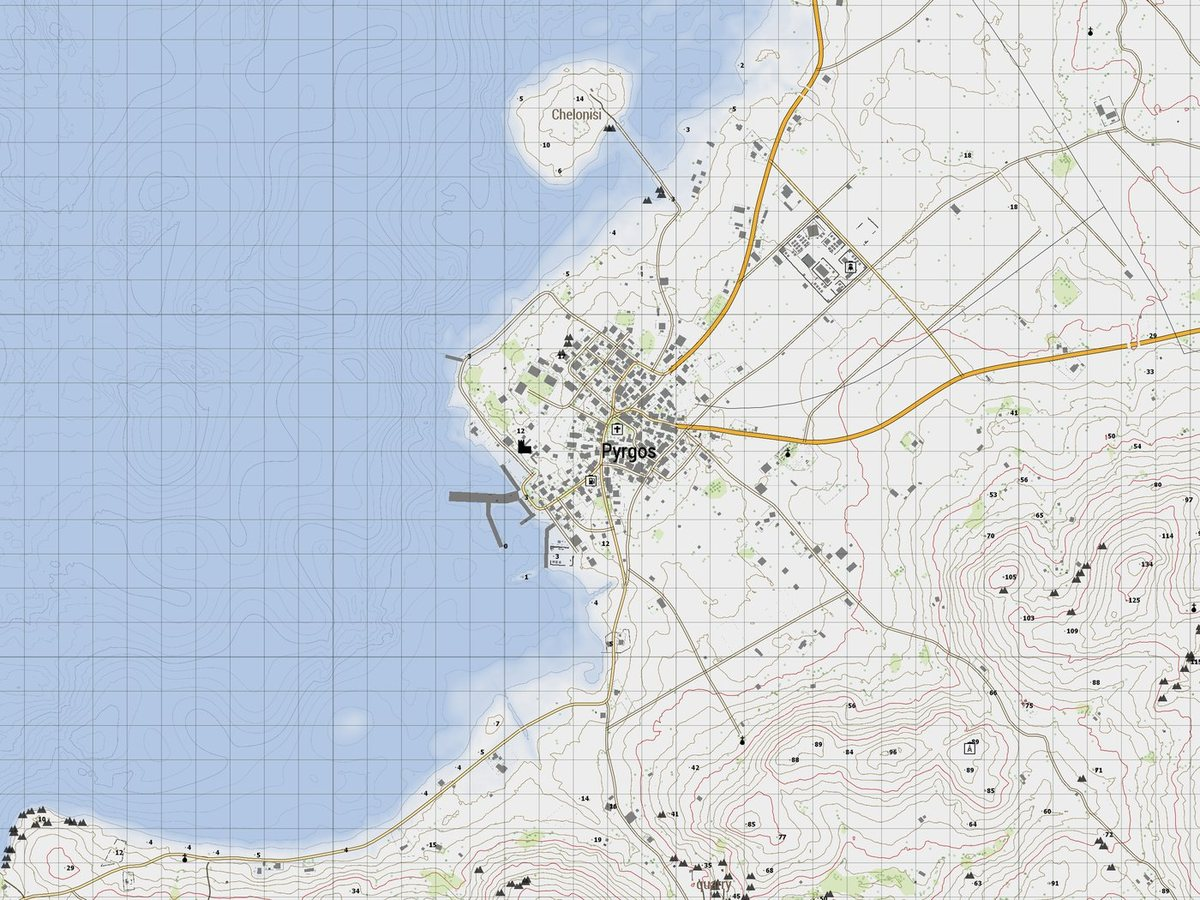
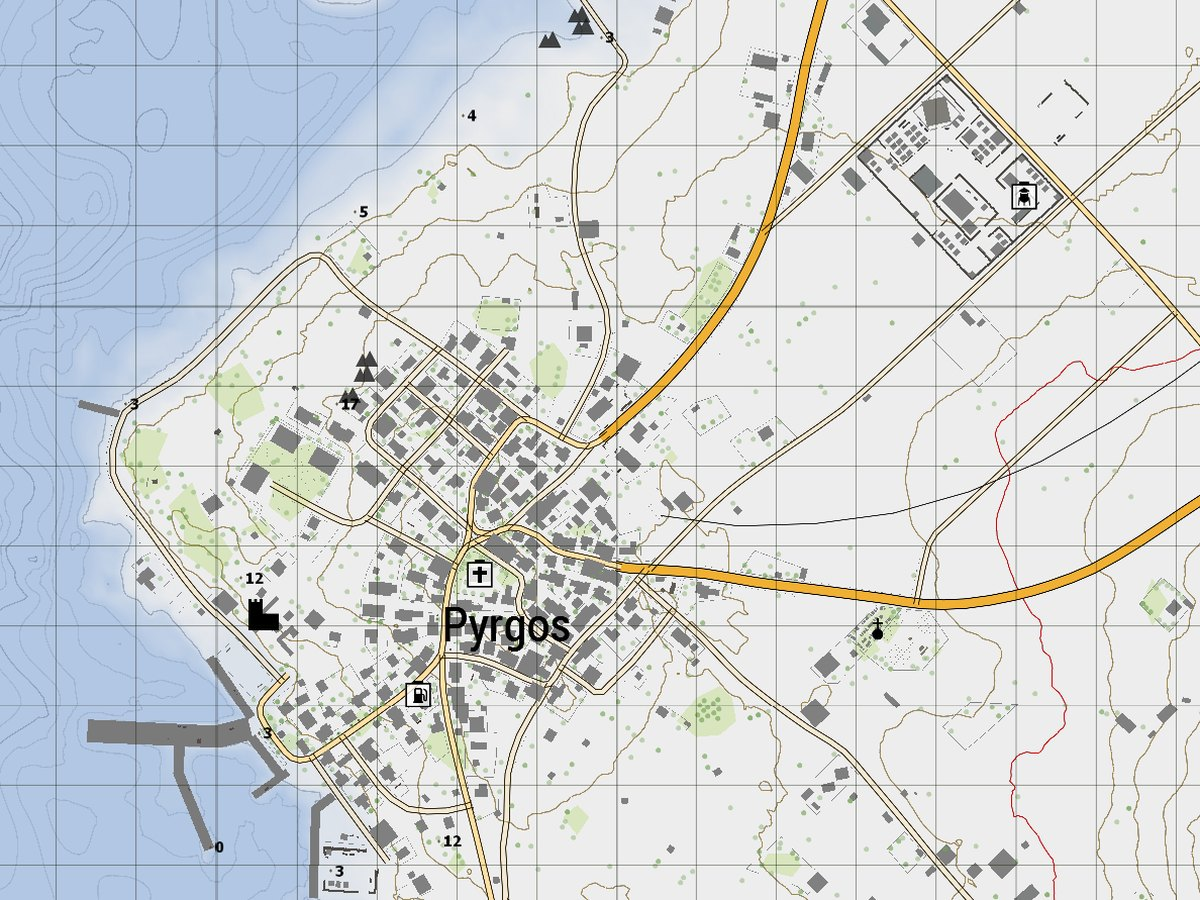
feat: aproxima o zoom da AO SUL em Pyrgos (#20)

diff --git a/src/defaults.ts b/src/defaults.ts
@@ -381,7 +381,7 @@ export function defaultDossier(): Dossier {
     subject: 'Assalto ao complexo C2 em Pyrgos e captura do HVT VIPER',
     hHour: '230200ZSEP26',
     ao: 'AO SUL — Pyrgos e adjacências',
-    grid: '167126 (centro); alvo 173131',
+    grid: '169128 (centro); alvo 173131',
     terrain: 'Urbano litorâneo, vias estreitas, iluminação residual',
   }
   d.body = {
@@ -482,7 +482,7 @@ export function defaultDossier(): Dossier {
       grid: false,
       cols: 6,
       rows: 6,
-      location: '167126',
+      location: '169128',
       azimuth: 'A leste, a partir de LZ HAWK',
       references: 'Pyrgos no litoral. Complexo murado ao norte da cidade, junto à rodovia. Colinas a leste.',
       observations: 'Urbano litorâneo, vias estreitas, luz residual. Campo minado marcado a oeste do grid 140.',
